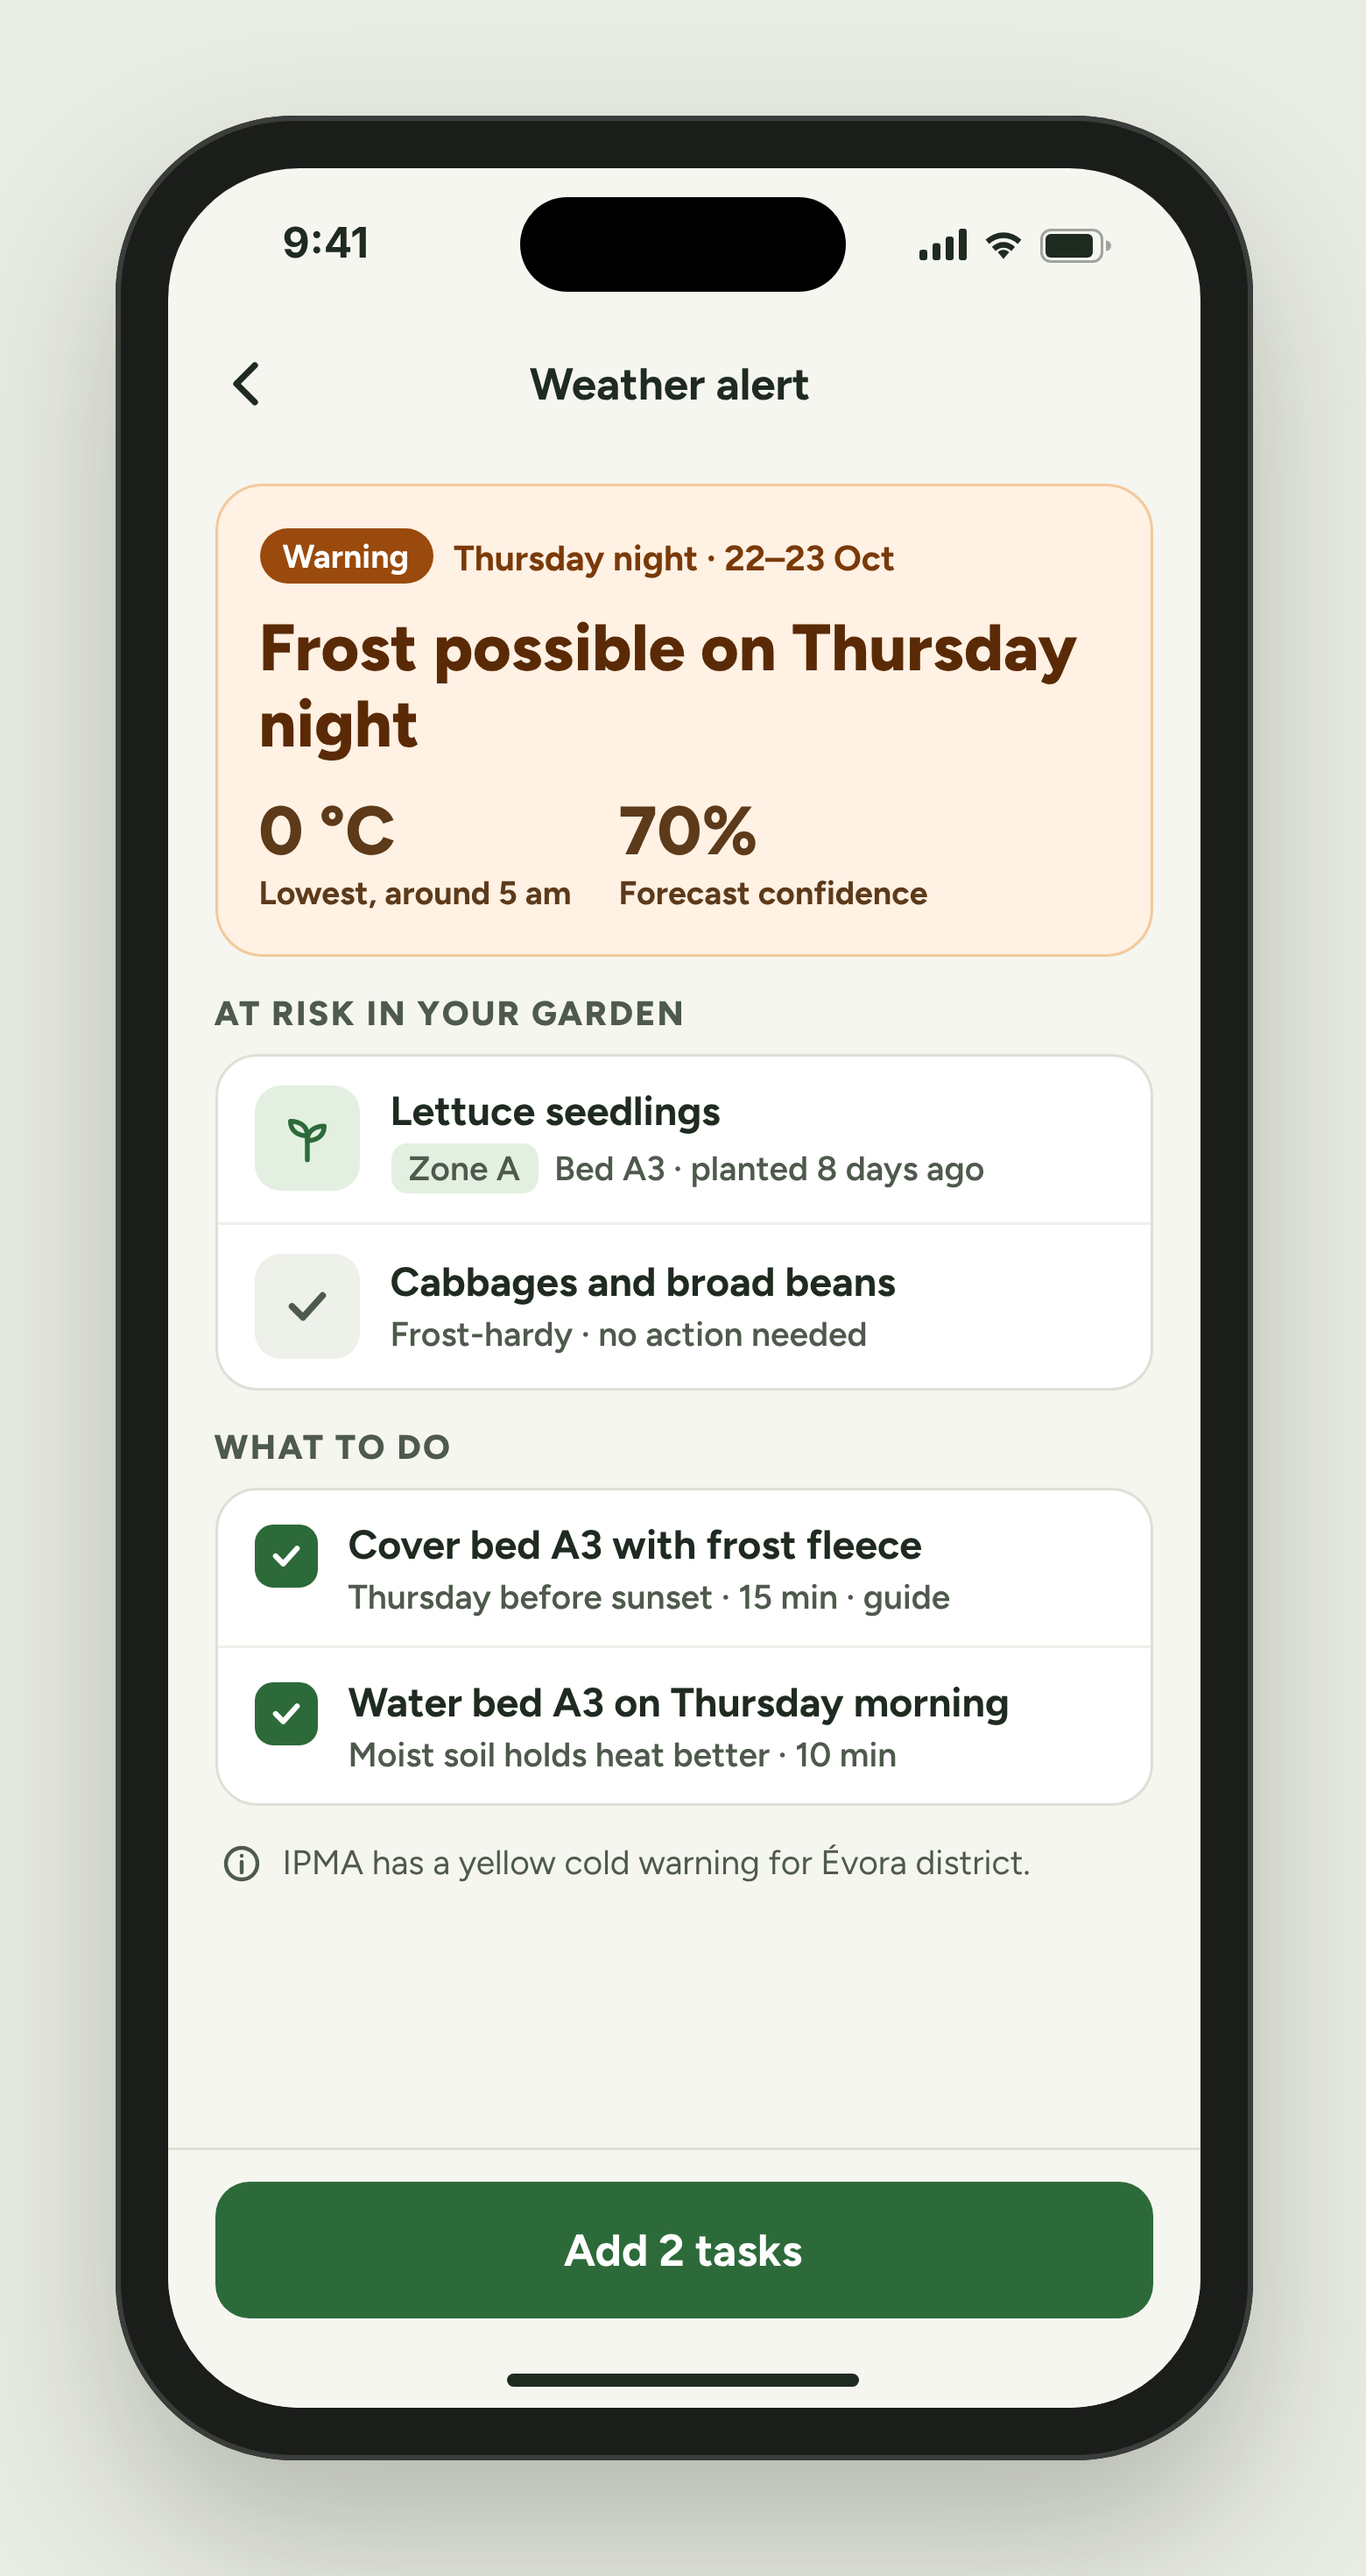
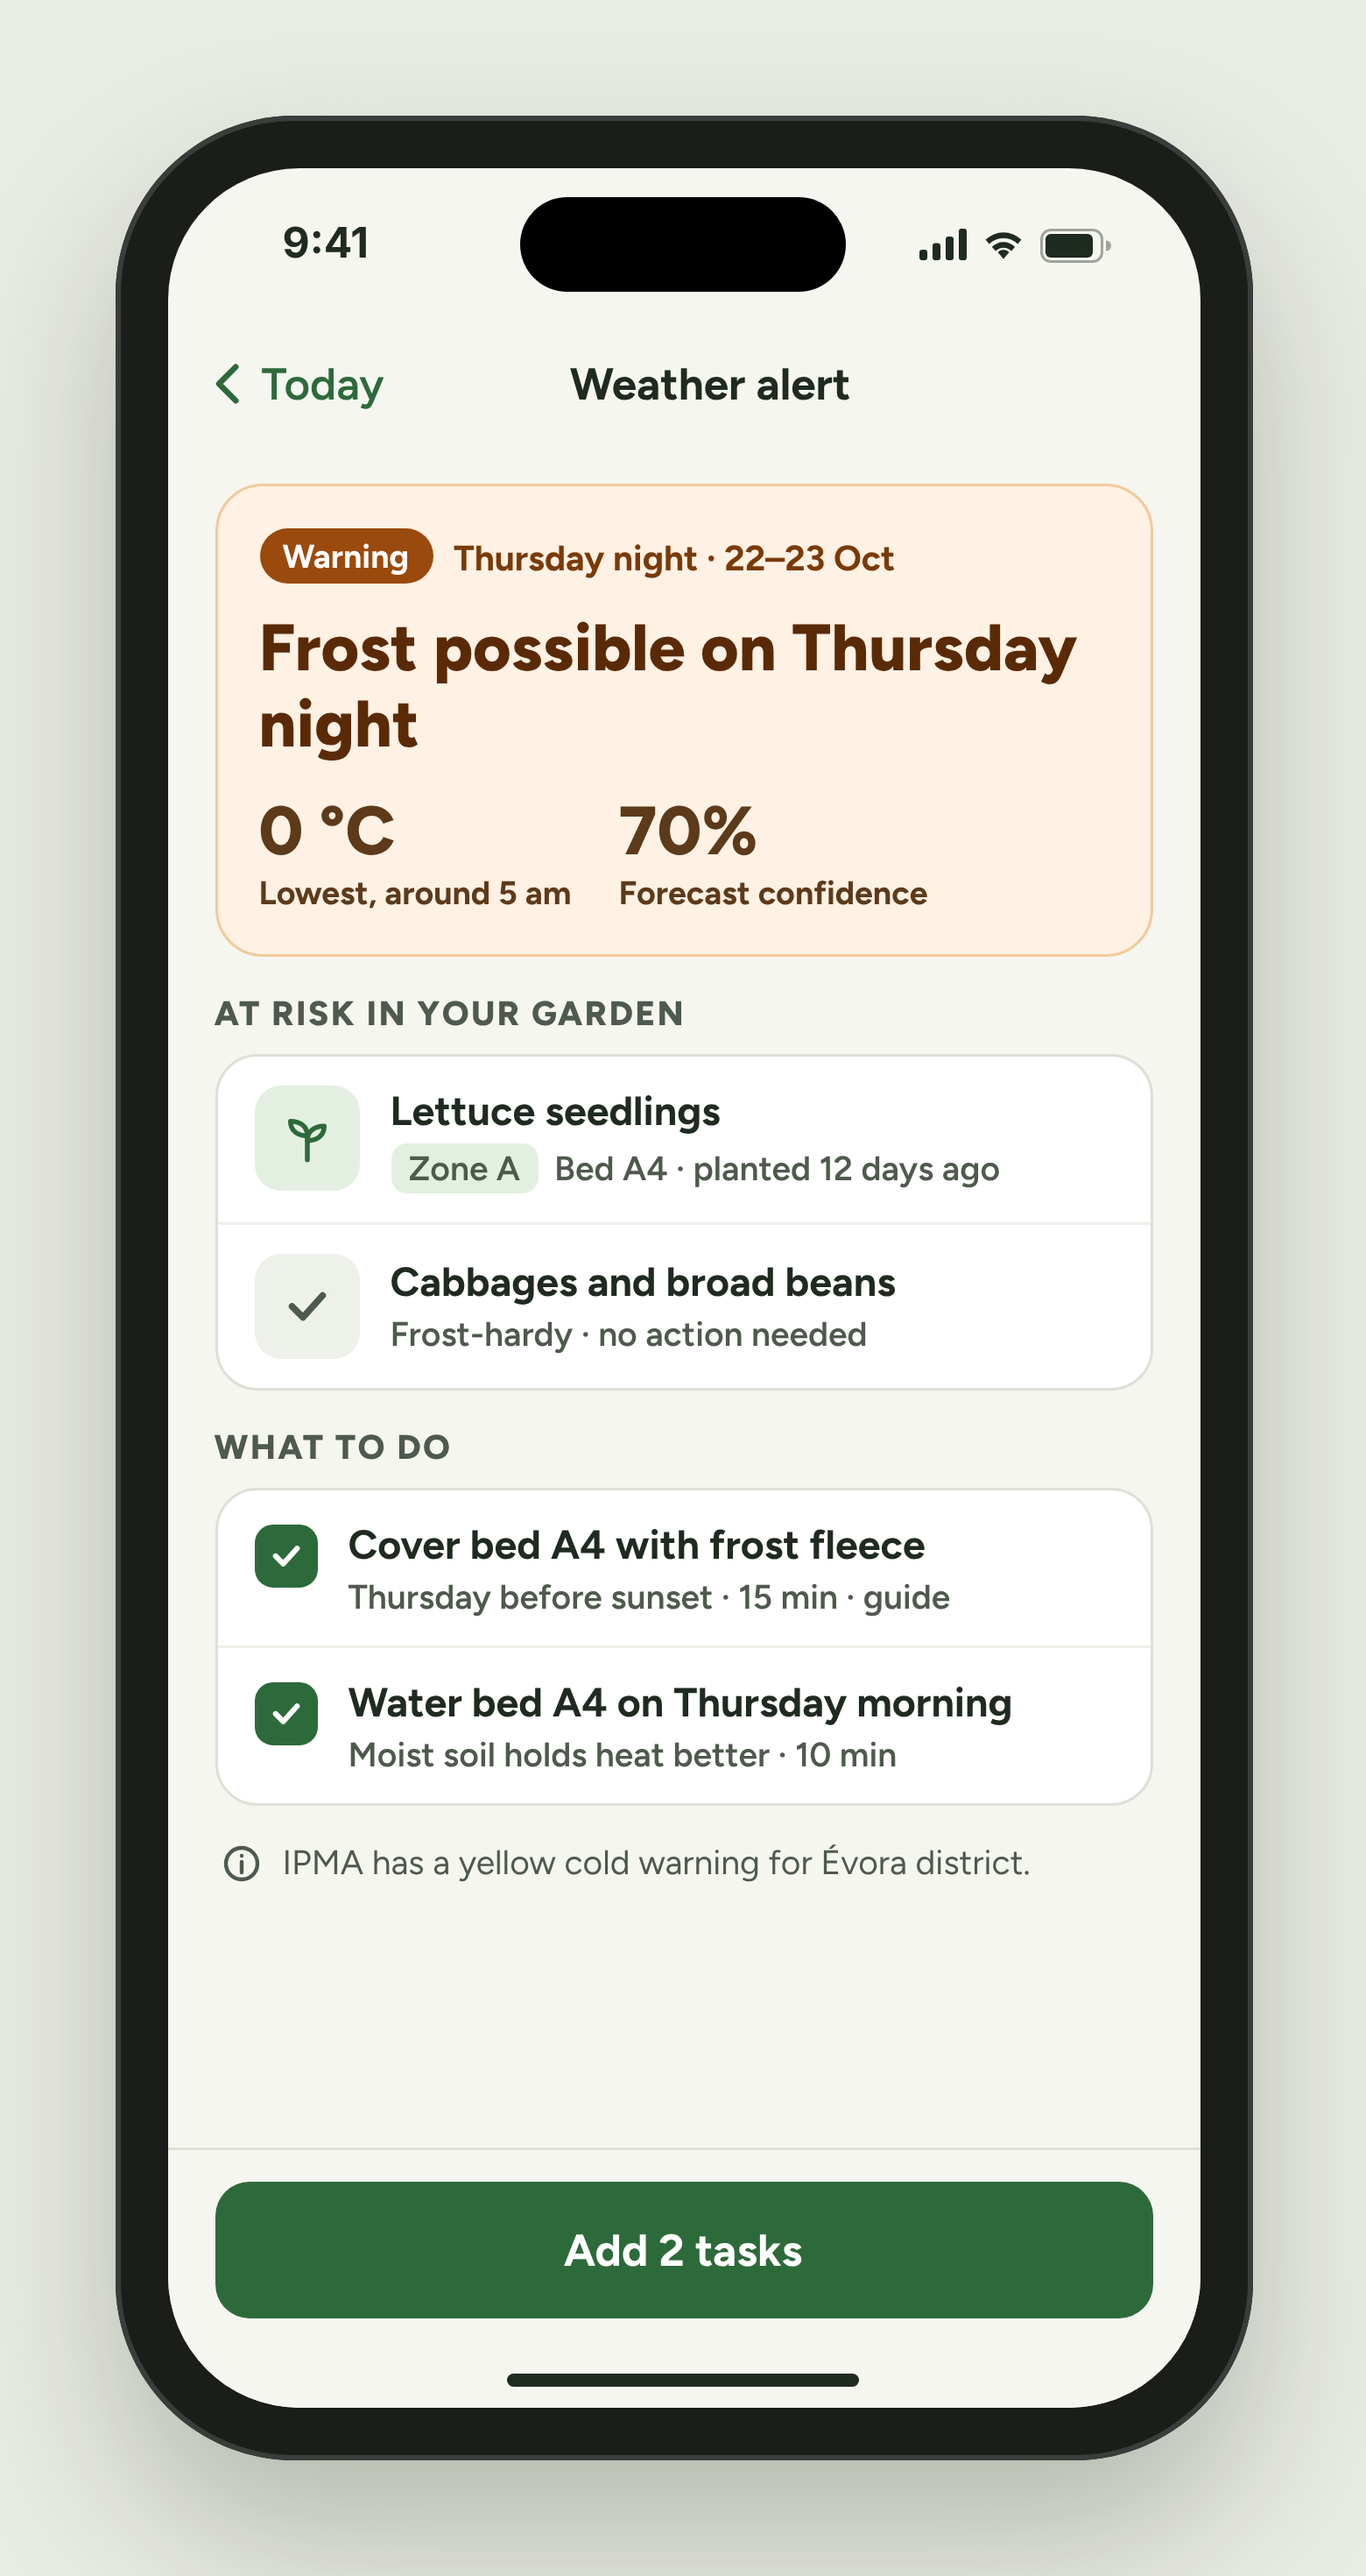
Design: B5 back button and bed A4 consistency; B2 synced
Claude-Session: https://claude.ai/code/session_015NynAjU4naPZwzmeuGazot

diff --git a/design/source/B5-weather-alert.html b/design/source/B5-weather-alert.html
@@ -75,7 +75,7 @@
 
 
   <div class="content" style="gap: 14px; bottom: 120px">
-    <div class="nav"><div class="back"><svg width="24" height="24" viewBox="0 0 24 24" fill="none" stroke="#1F2A20" stroke-width="2.4" stroke-linecap="round" stroke-linejoin="round"><path d="M15 5l-7 7 7 7"/></svg></div><div class="ntitle">Weather alert</div><div class="nright"></div></div>
+    <div class="nav"><div class="back" style="width: auto; margin-left: -6px; gap: 2px; color: var(--green); font-size: 17px; font-weight: 600"><svg width="22" height="22" viewBox="0 0 24 24" fill="none" stroke="#2D6A3A" stroke-width="2.4" stroke-linecap="round" stroke-linejoin="round"><path d="M15 5l-7 7 7 7"/></svg>Today</div><div class="ntitle">Weather alert</div><div class="nright"></div></div>
     <div style="background: var(--orange-soft); border: 1px solid #F3C99A; border-radius: 18px; padding: 16px; display: flex; flex-direction: column; gap: 10px">
       <div class="row" style="gap: 8px"><span class="chip" style="background: #9A4A0C; color: #fff">Warning</span><span style="font-size: 13.5px; font-weight: 700; color: #7A3A08">Thursday night · 22–23 Oct</span></div>
       <div style="font-size: 25px; font-weight: 800; line-height: 1.15; color: #5A2A06">Frost possible on Thursday night</div>
@@ -87,15 +87,15 @@
     <div style="display: flex; flex-direction: column; gap: 8px">
       <div class="label">At risk in your garden</div>
       <div class="list">
-        <div class="item"><div style="width: 40px; height: 40px; border-radius: 10px; background: var(--green-soft); display: flex; align-items: center; justify-content: center"><svg width="22" height="22" viewBox="0 0 24 24" fill="none" stroke="#2D6A3A" stroke-width="2" stroke-linecap="round" stroke-linejoin="round"><path d="M12 21V11"/><path d="M12 11C12 7 9 5 5 5c0 4 3 6 7 6zM12 13c0-4 3-6 7-6 0 4-3 6-7 6z"/></svg></div><div class="it"><b>Lettuce seedlings</b><span class="row" style="gap: 6px"><span class="zc za">Zone A</span>Bed A3 · planted 8 days ago</span></div></div>
+        <div class="item"><div style="width: 40px; height: 40px; border-radius: 10px; background: var(--green-soft); display: flex; align-items: center; justify-content: center"><svg width="22" height="22" viewBox="0 0 24 24" fill="none" stroke="#2D6A3A" stroke-width="2" stroke-linecap="round" stroke-linejoin="round"><path d="M12 21V11"/><path d="M12 11C12 7 9 5 5 5c0 4 3 6 7 6zM12 13c0-4 3-6 7-6 0 4-3 6-7 6z"/></svg></div><div class="it"><b>Lettuce seedlings</b><span class="row" style="gap: 6px"><span class="zc za">Zone A</span>Bed A4 · planted 12 days ago</span></div></div>
         <div class="item"><div style="width: 40px; height: 40px; border-radius: 10px; background: #EEF0EA; display: flex; align-items: center; justify-content: center"><svg width="20" height="20" viewBox="0 0 24 24" fill="none" stroke="#4E5A4C" stroke-width="3" stroke-linecap="round" stroke-linejoin="round"><path d="M5 12l5 5 9-10"/></svg></div><div class="it"><b>Cabbages and broad beans</b><span>Frost-hardy · no action needed</span></div></div>
       </div>
     </div>
     <div style="display: flex; flex-direction: column; gap: 8px">
       <div class="label">What to do</div>
       <div class="list">
-        <div class="item" style="align-items: flex-start"><div class="box done" style="margin-top: 2px"><svg width="14" height="14" viewBox="0 0 24 24" fill="none" stroke="#fff" stroke-width="3.5" stroke-linecap="round" stroke-linejoin="round"><path d="M5 12l5 5 9-10"/></svg></div><div class="it"><b>Cover bed A3 with frost fleece</b><span>Thursday before sunset · 15 min · guide</span></div></div>
-        <div class="item" style="align-items: flex-start"><div class="box done" style="margin-top: 2px"><svg width="14" height="14" viewBox="0 0 24 24" fill="none" stroke="#fff" stroke-width="3.5" stroke-linecap="round" stroke-linejoin="round"><path d="M5 12l5 5 9-10"/></svg></div><div class="it"><b>Water bed A3 on Thursday morning</b><span>Moist soil holds heat better · 10 min</span></div></div>
+        <div class="item" style="align-items: flex-start"><div class="box done" style="margin-top: 2px"><svg width="14" height="14" viewBox="0 0 24 24" fill="none" stroke="#fff" stroke-width="3.5" stroke-linecap="round" stroke-linejoin="round"><path d="M5 12l5 5 9-10"/></svg></div><div class="it"><b>Cover bed A4 with frost fleece</b><span>Thursday before sunset · 15 min · guide</span></div></div>
+        <div class="item" style="align-items: flex-start"><div class="box done" style="margin-top: 2px"><svg width="14" height="14" viewBox="0 0 24 24" fill="none" stroke="#fff" stroke-width="3.5" stroke-linecap="round" stroke-linejoin="round"><path d="M5 12l5 5 9-10"/></svg></div><div class="it"><b>Water bed A4 on Thursday morning</b><span>Moist soil holds heat better · 10 min</span></div></div>
       </div>
     </div>
     <div class="row" style="gap: 8px; font-size: 13px; color: var(--muted); padding: 0 2px"><svg width="16" height="16" viewBox="0 0 24 24" fill="none" stroke="#4E5A4C" stroke-width="2.2" stroke-linecap="round"><circle cx="12" cy="12" r="9"/><path d="M12 11v6M12 7.5v.01"/></svg>IPMA has a yellow cold warning for Évora district.</div>

diff --git a/design/source/B2-tasks-full.html b/design/source/B2-tasks-full.html
@@ -64,7 +64,7 @@
   .kv span { font-size: 12.5px; color: var(--muted); font-weight: 600; }
   .bottom { position: absolute; left: 0; right: 0; bottom: 0; z-index: 30; background: rgba(245,246,240,.97); border-top: 1px solid var(--line); padding: 12px 18px 34px; display: flex; flex-direction: column; gap: 10px; }
 </style>
-<style>.stage{height:1300px}.phone{height:1240px}.screen{height:1200px}</style>
+<style>.stage{height:1380px}.phone{height:1320px}.screen{height:1280px}</style>
 </head>
 <body>
 <div class="stage"><div class="phone"><div class="screen">
@@ -91,7 +91,7 @@
       <div style="flex: 1"><div style="font-size: 16px; font-weight: 700">Plan your week</div><div style="font-size: 13.5px; color: var(--muted)">Set your hours, we suggest the tasks</div></div>
       <svg width="18" height="18" viewBox="0 0 24 24" fill="none" stroke="#4E5A4C" stroke-width="2.2" stroke-linecap="round" stroke-linejoin="round"><path d="M9 6l6 6-6 6"/></svg>
     </div>
-    <div class="row" style="justify-content: space-between"><span style="font-size: 15px; font-weight: 700">9 tasks · about 9 h</span><span class="link">Filter</span></div>
+    <div class="row" style="justify-content: space-between"><span style="font-size: 15px; font-weight: 700">10 tasks · about 9 h</span><span class="link">Filter</span></div>
     <div class="day">Today · Tue 20</div>
     <div class="list">
       <div class="item"><div class="box done"><svg width="14" height="14" viewBox="0 0 24 24" fill="none" stroke="#fff" stroke-width="3.5" stroke-linecap="round" stroke-linejoin="round"><path d="M5 12l5 5 9-10"/></svg></div><div class="it"><b style="color: #6B7468; text-decoration: line-through">Water Zone A beds</b><span class="row" style="gap: 6px"><span class="zc za">Zone A</span>Drip sector 1 · 30 min</span></div></div>
@@ -105,7 +105,8 @@
     </div>
     <div class="day">Thursday 22</div>
     <div class="list">
-      <div class="item"><div class="box"></div><div class="it"><b>Cover bed A3 with frost fleece</b><span class="row" style="gap: 6px"><span class="zc za">Zone A</span>15 min · before sunset</span></div></div>
+      <div class="item"><div class="box"></div><div class="it"><b>Water bed A4 in the morning</b><span class="row" style="gap: 6px"><span class="zc za">Zone A</span>10 min · moist soil holds heat</span></div></div>
+      <div class="item"><div class="box"></div><div class="it"><b>Cover bed A4 with frost fleece</b><span class="row" style="gap: 6px"><span class="zc za">Zone A</span>15 min · before sunset</span></div></div>
     </div>
     <div class="day">Saturday 24</div>
     <div class="list">

diff --git a/design/source/B2-tasks.html b/design/source/B2-tasks.html
@@ -90,7 +90,7 @@
       <div style="flex: 1"><div style="font-size: 16px; font-weight: 700">Plan your week</div><div style="font-size: 13.5px; color: var(--muted)">Set your hours, we suggest the tasks</div></div>
       <svg width="18" height="18" viewBox="0 0 24 24" fill="none" stroke="#4E5A4C" stroke-width="2.2" stroke-linecap="round" stroke-linejoin="round"><path d="M9 6l6 6-6 6"/></svg>
     </div>
-    <div class="row" style="justify-content: space-between"><span style="font-size: 15px; font-weight: 700">9 tasks · about 9 h</span><span class="link">Filter</span></div>
+    <div class="row" style="justify-content: space-between"><span style="font-size: 15px; font-weight: 700">10 tasks · about 9 h</span><span class="link">Filter</span></div>
     <div class="day">Today · Tue 20</div>
     <div class="list">
       <div class="item"><div class="box done"><svg width="14" height="14" viewBox="0 0 24 24" fill="none" stroke="#fff" stroke-width="3.5" stroke-linecap="round" stroke-linejoin="round"><path d="M5 12l5 5 9-10"/></svg></div><div class="it"><b style="color: #6B7468; text-decoration: line-through">Water Zone A beds</b><span class="row" style="gap: 6px"><span class="zc za">Zone A</span>Drip sector 1 · 30 min</span></div></div>
@@ -104,7 +104,8 @@
     </div>
     <div class="day">Thursday 22</div>
     <div class="list">
-      <div class="item"><div class="box"></div><div class="it"><b>Cover bed A3 with frost fleece</b><span class="row" style="gap: 6px"><span class="zc za">Zone A</span>15 min · before sunset</span></div></div>
+      <div class="item"><div class="box"></div><div class="it"><b>Water bed A4 in the morning</b><span class="row" style="gap: 6px"><span class="zc za">Zone A</span>10 min · moist soil holds heat</span></div></div>
+      <div class="item"><div class="box"></div><div class="it"><b>Cover bed A4 with frost fleece</b><span class="row" style="gap: 6px"><span class="zc za">Zone A</span>15 min · before sunset</span></div></div>
     </div>
     <div class="day">Saturday 24</div>
     <div class="list">
